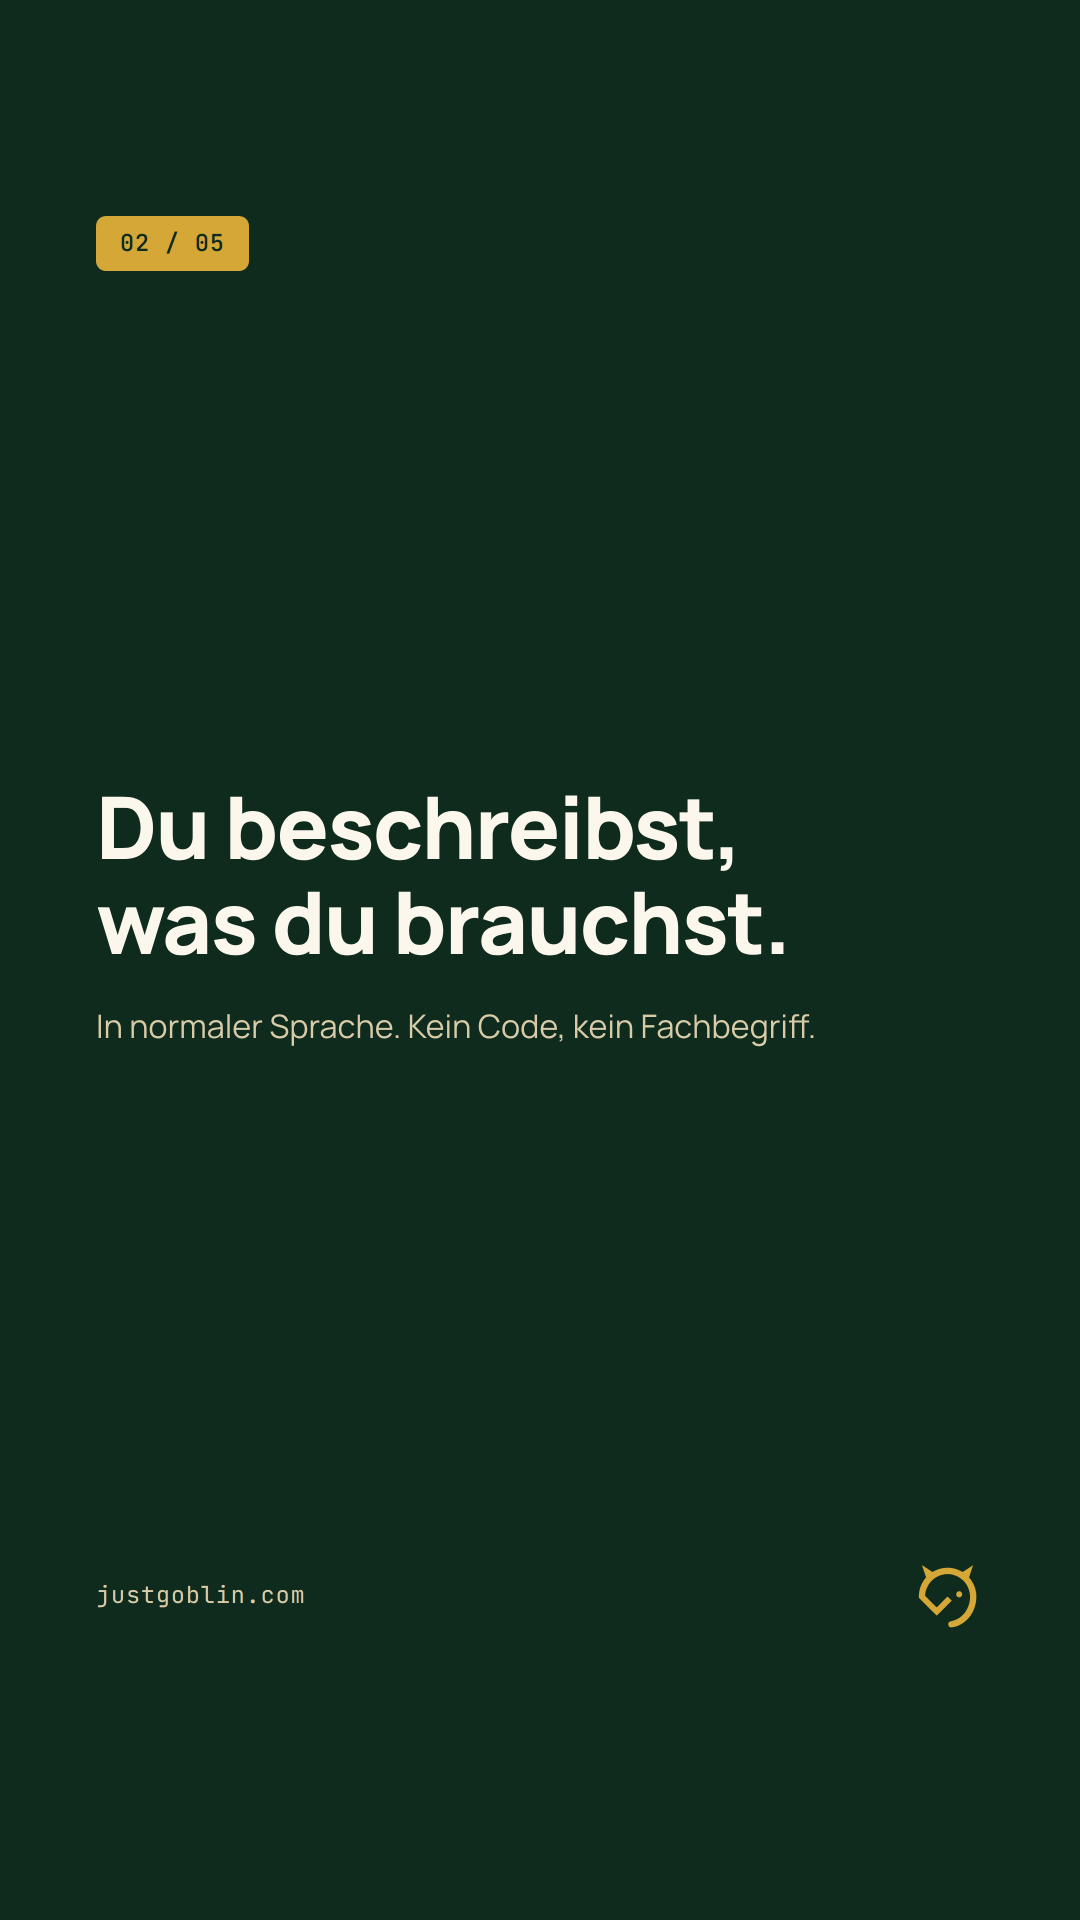
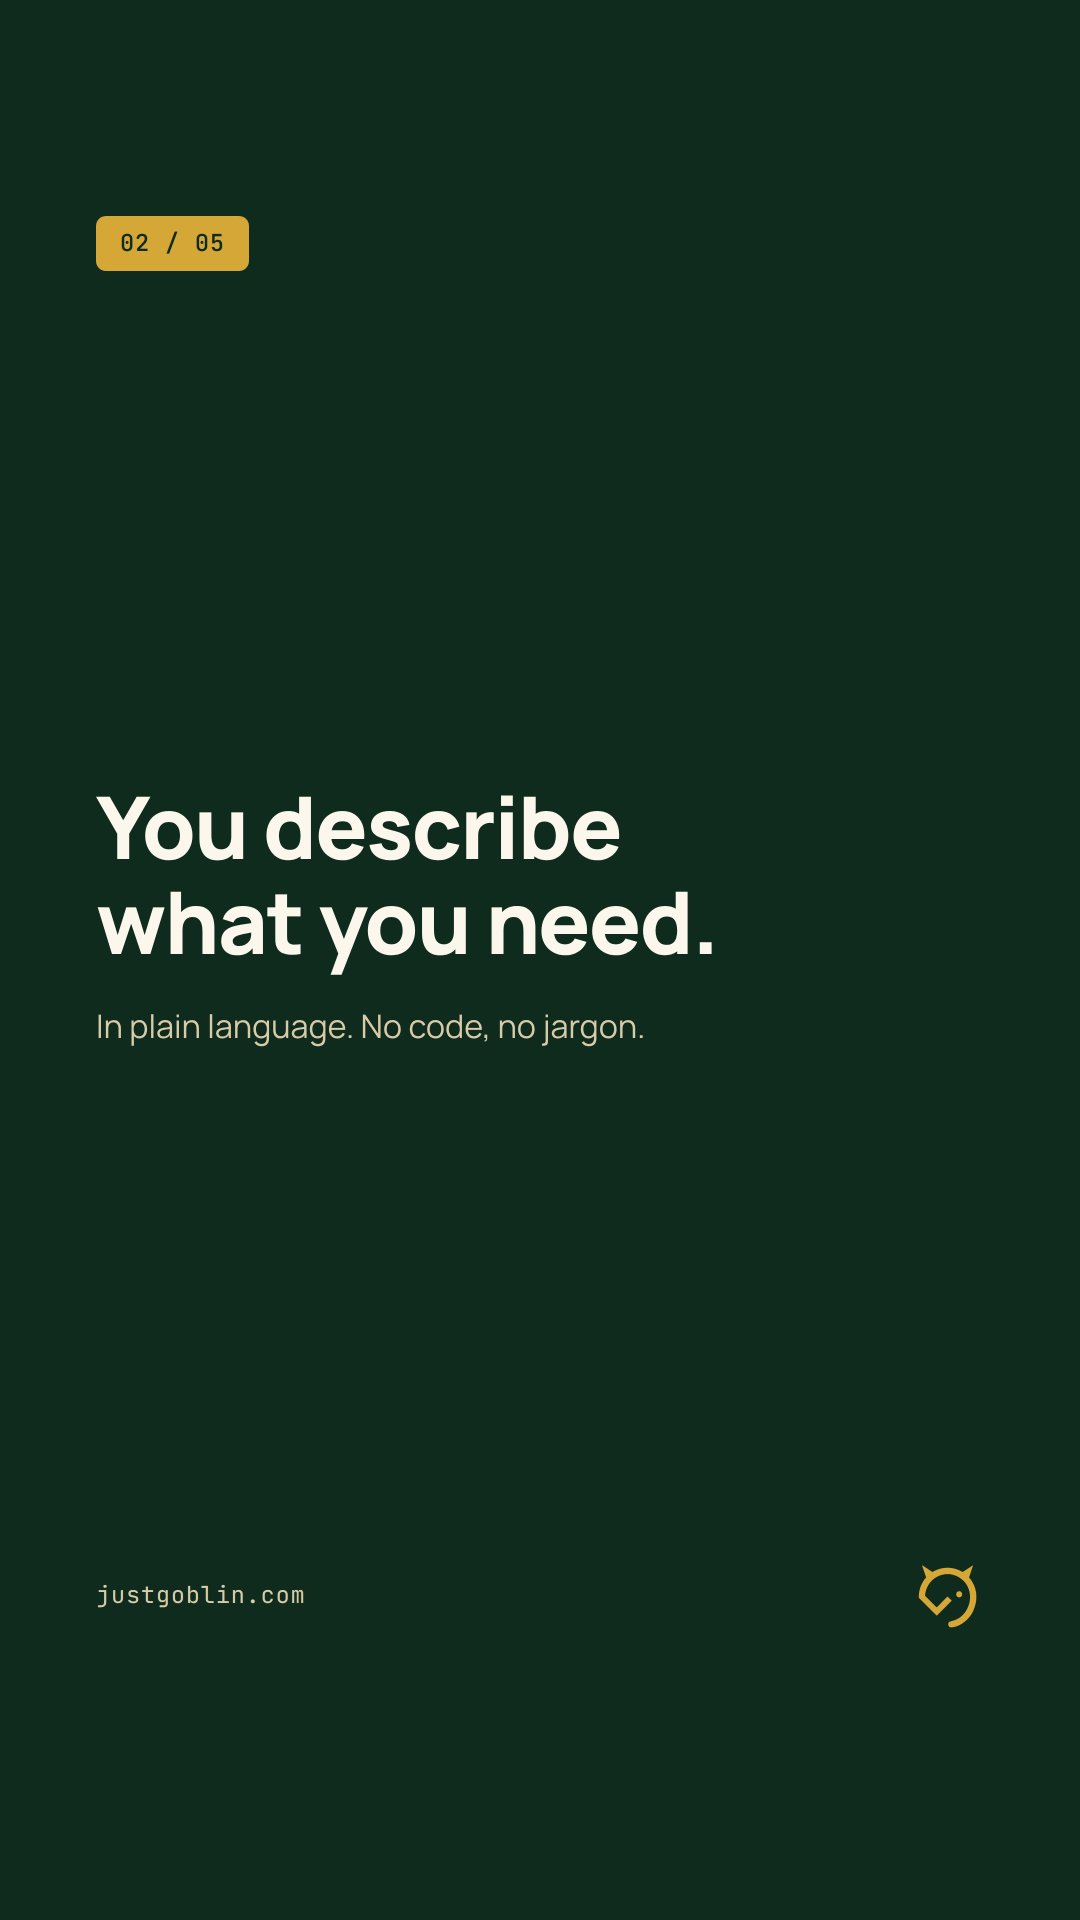
was-ist-goblin: translate to English
All on-image copy and the caption now in English ("What is Goblin?" / "01 —
BASICS"). Instagram content is English-only per founder request — nothing
German should reach the grid.

Changed region(s): [[0.0917, 0.4062, 0.7333, 0.5625]]

diff --git a/content/social/posts/was-ist-goblin/caption.md b/content/social/posts/was-ist-goblin/caption.md
@@ -1,9 +1,10 @@
-Goblin in vier Schritten.
+Goblin in four steps.
 
-Du beschreibst, was du brauchst — in normaler
-Sprache. Goblin baut es und stellt es online,
-mit eigener Adresse.
+You describe what you need — in plain
+language. Goblin builds it and puts it online,
+with its own address.
 
-Alles läuft in der Cloud. Dein Handy reicht.
+Everything runs in the cloud. Your phone
+is enough.
 
-Link in Bio.
+Link in bio.
